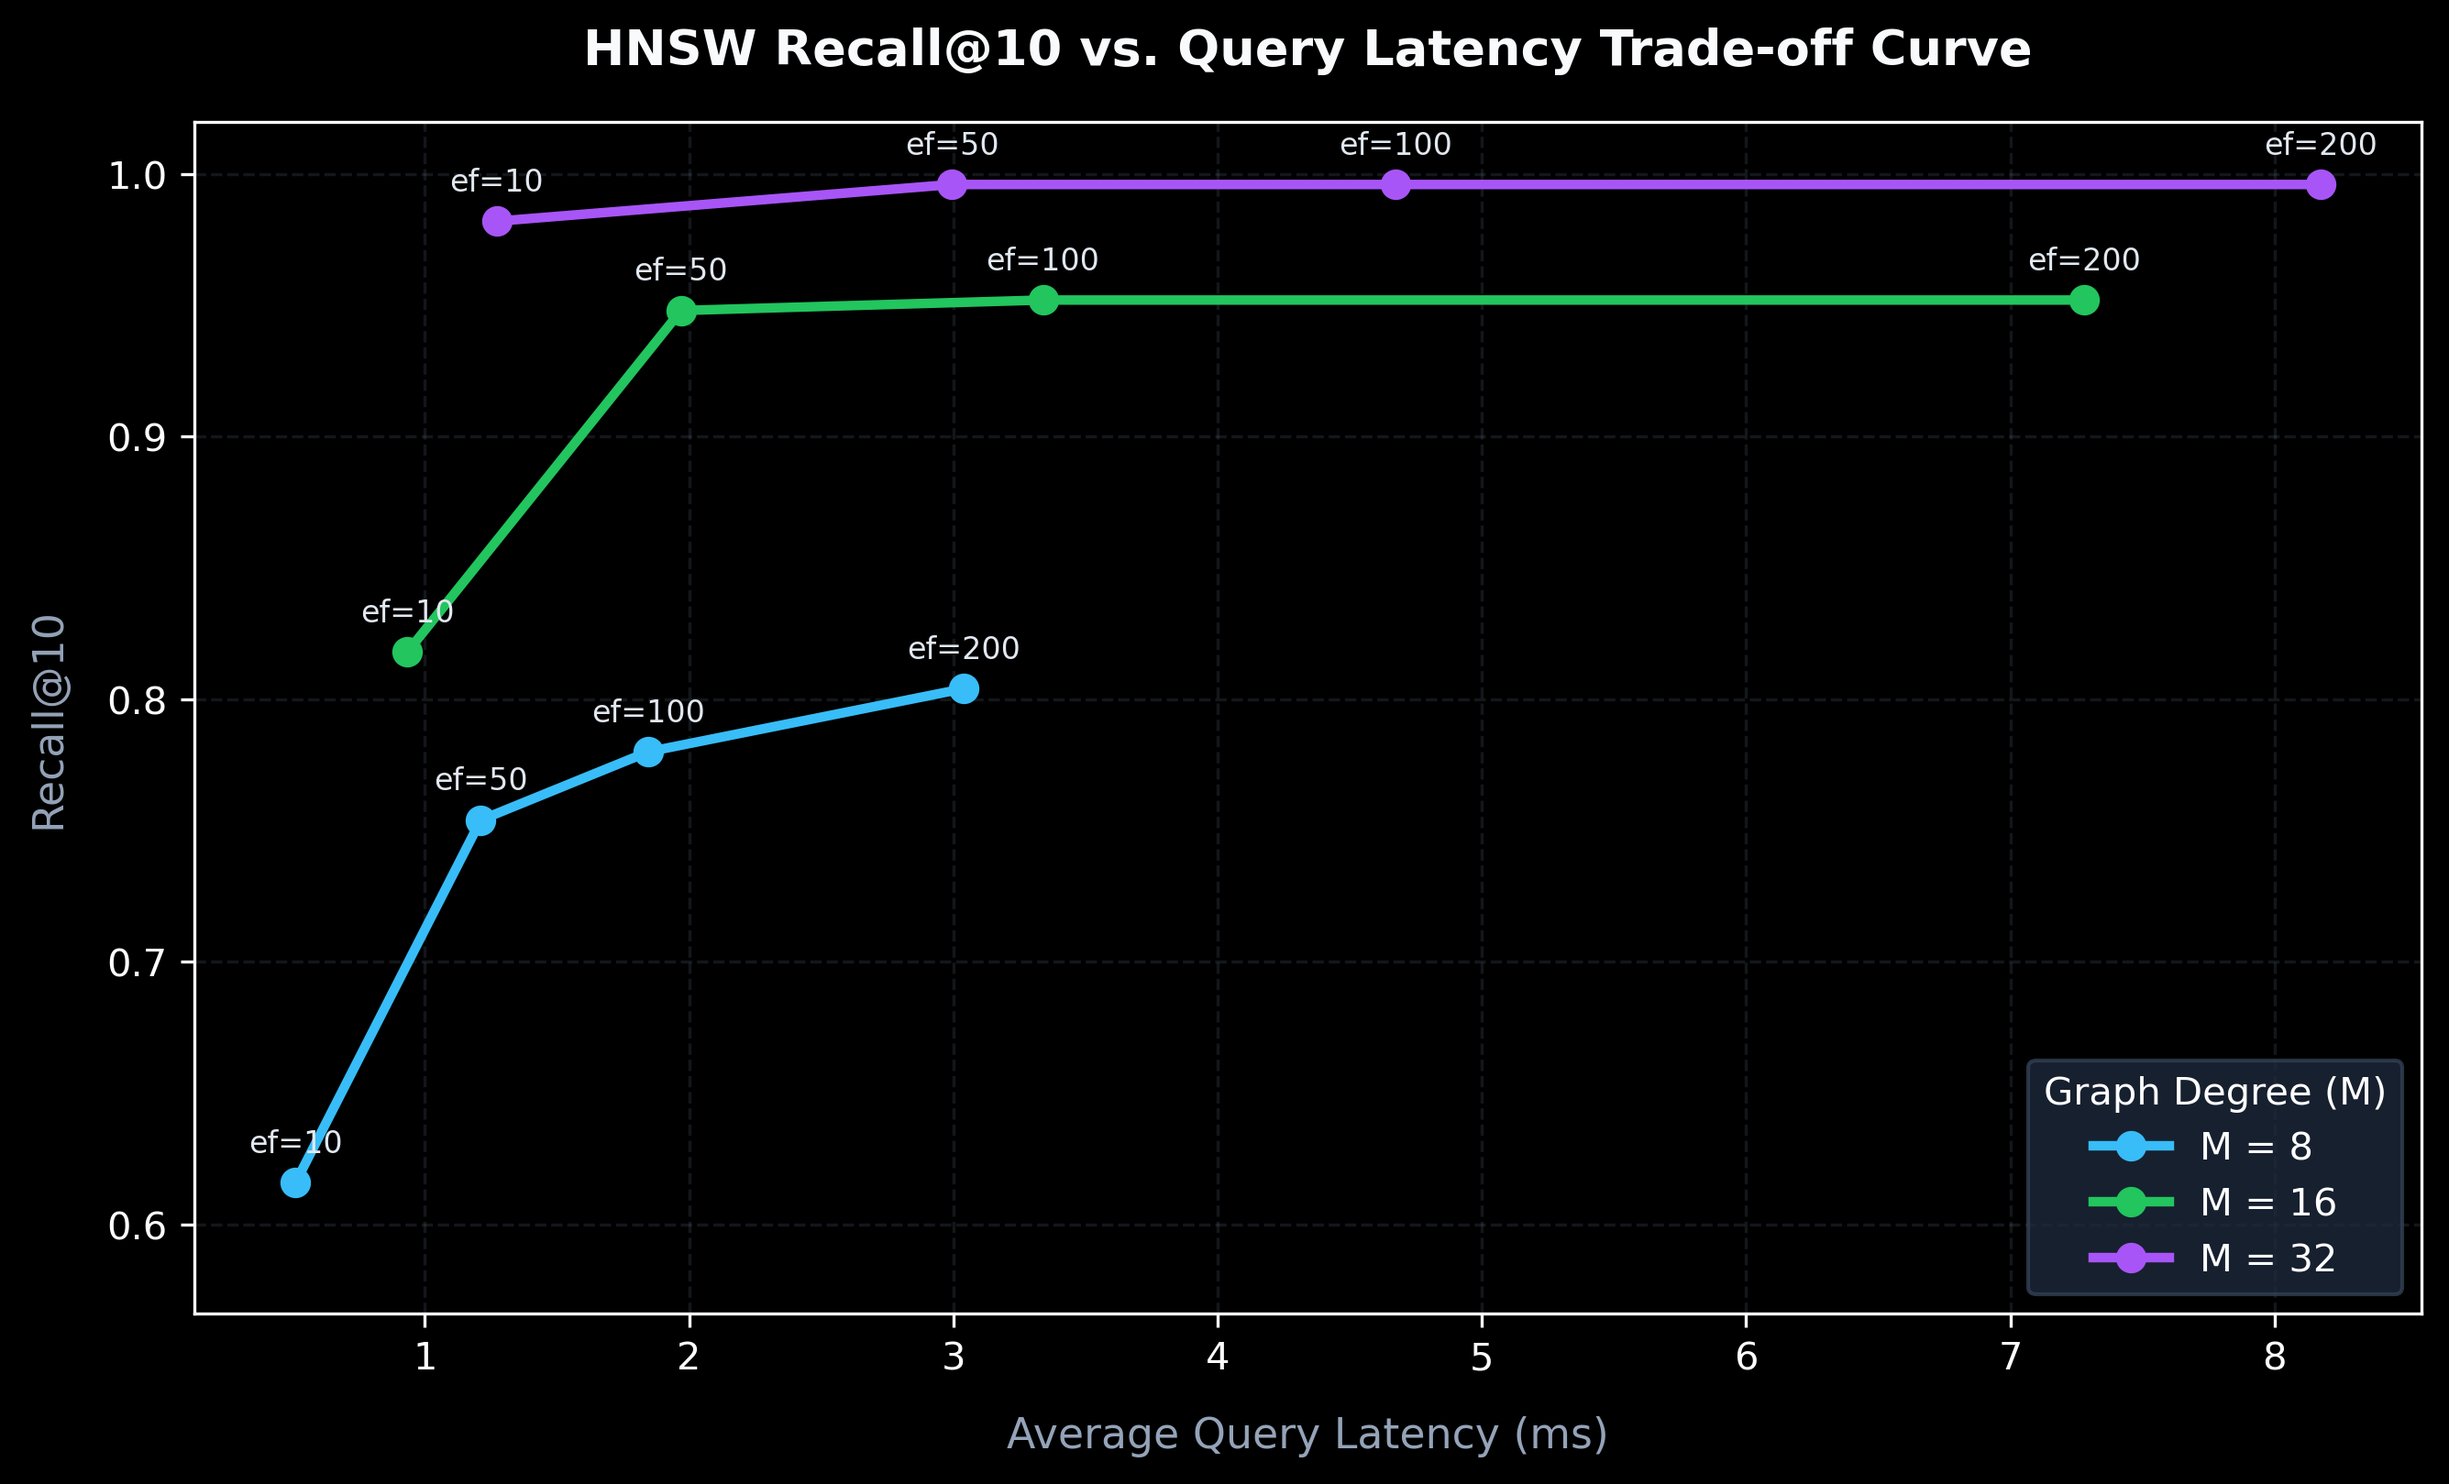
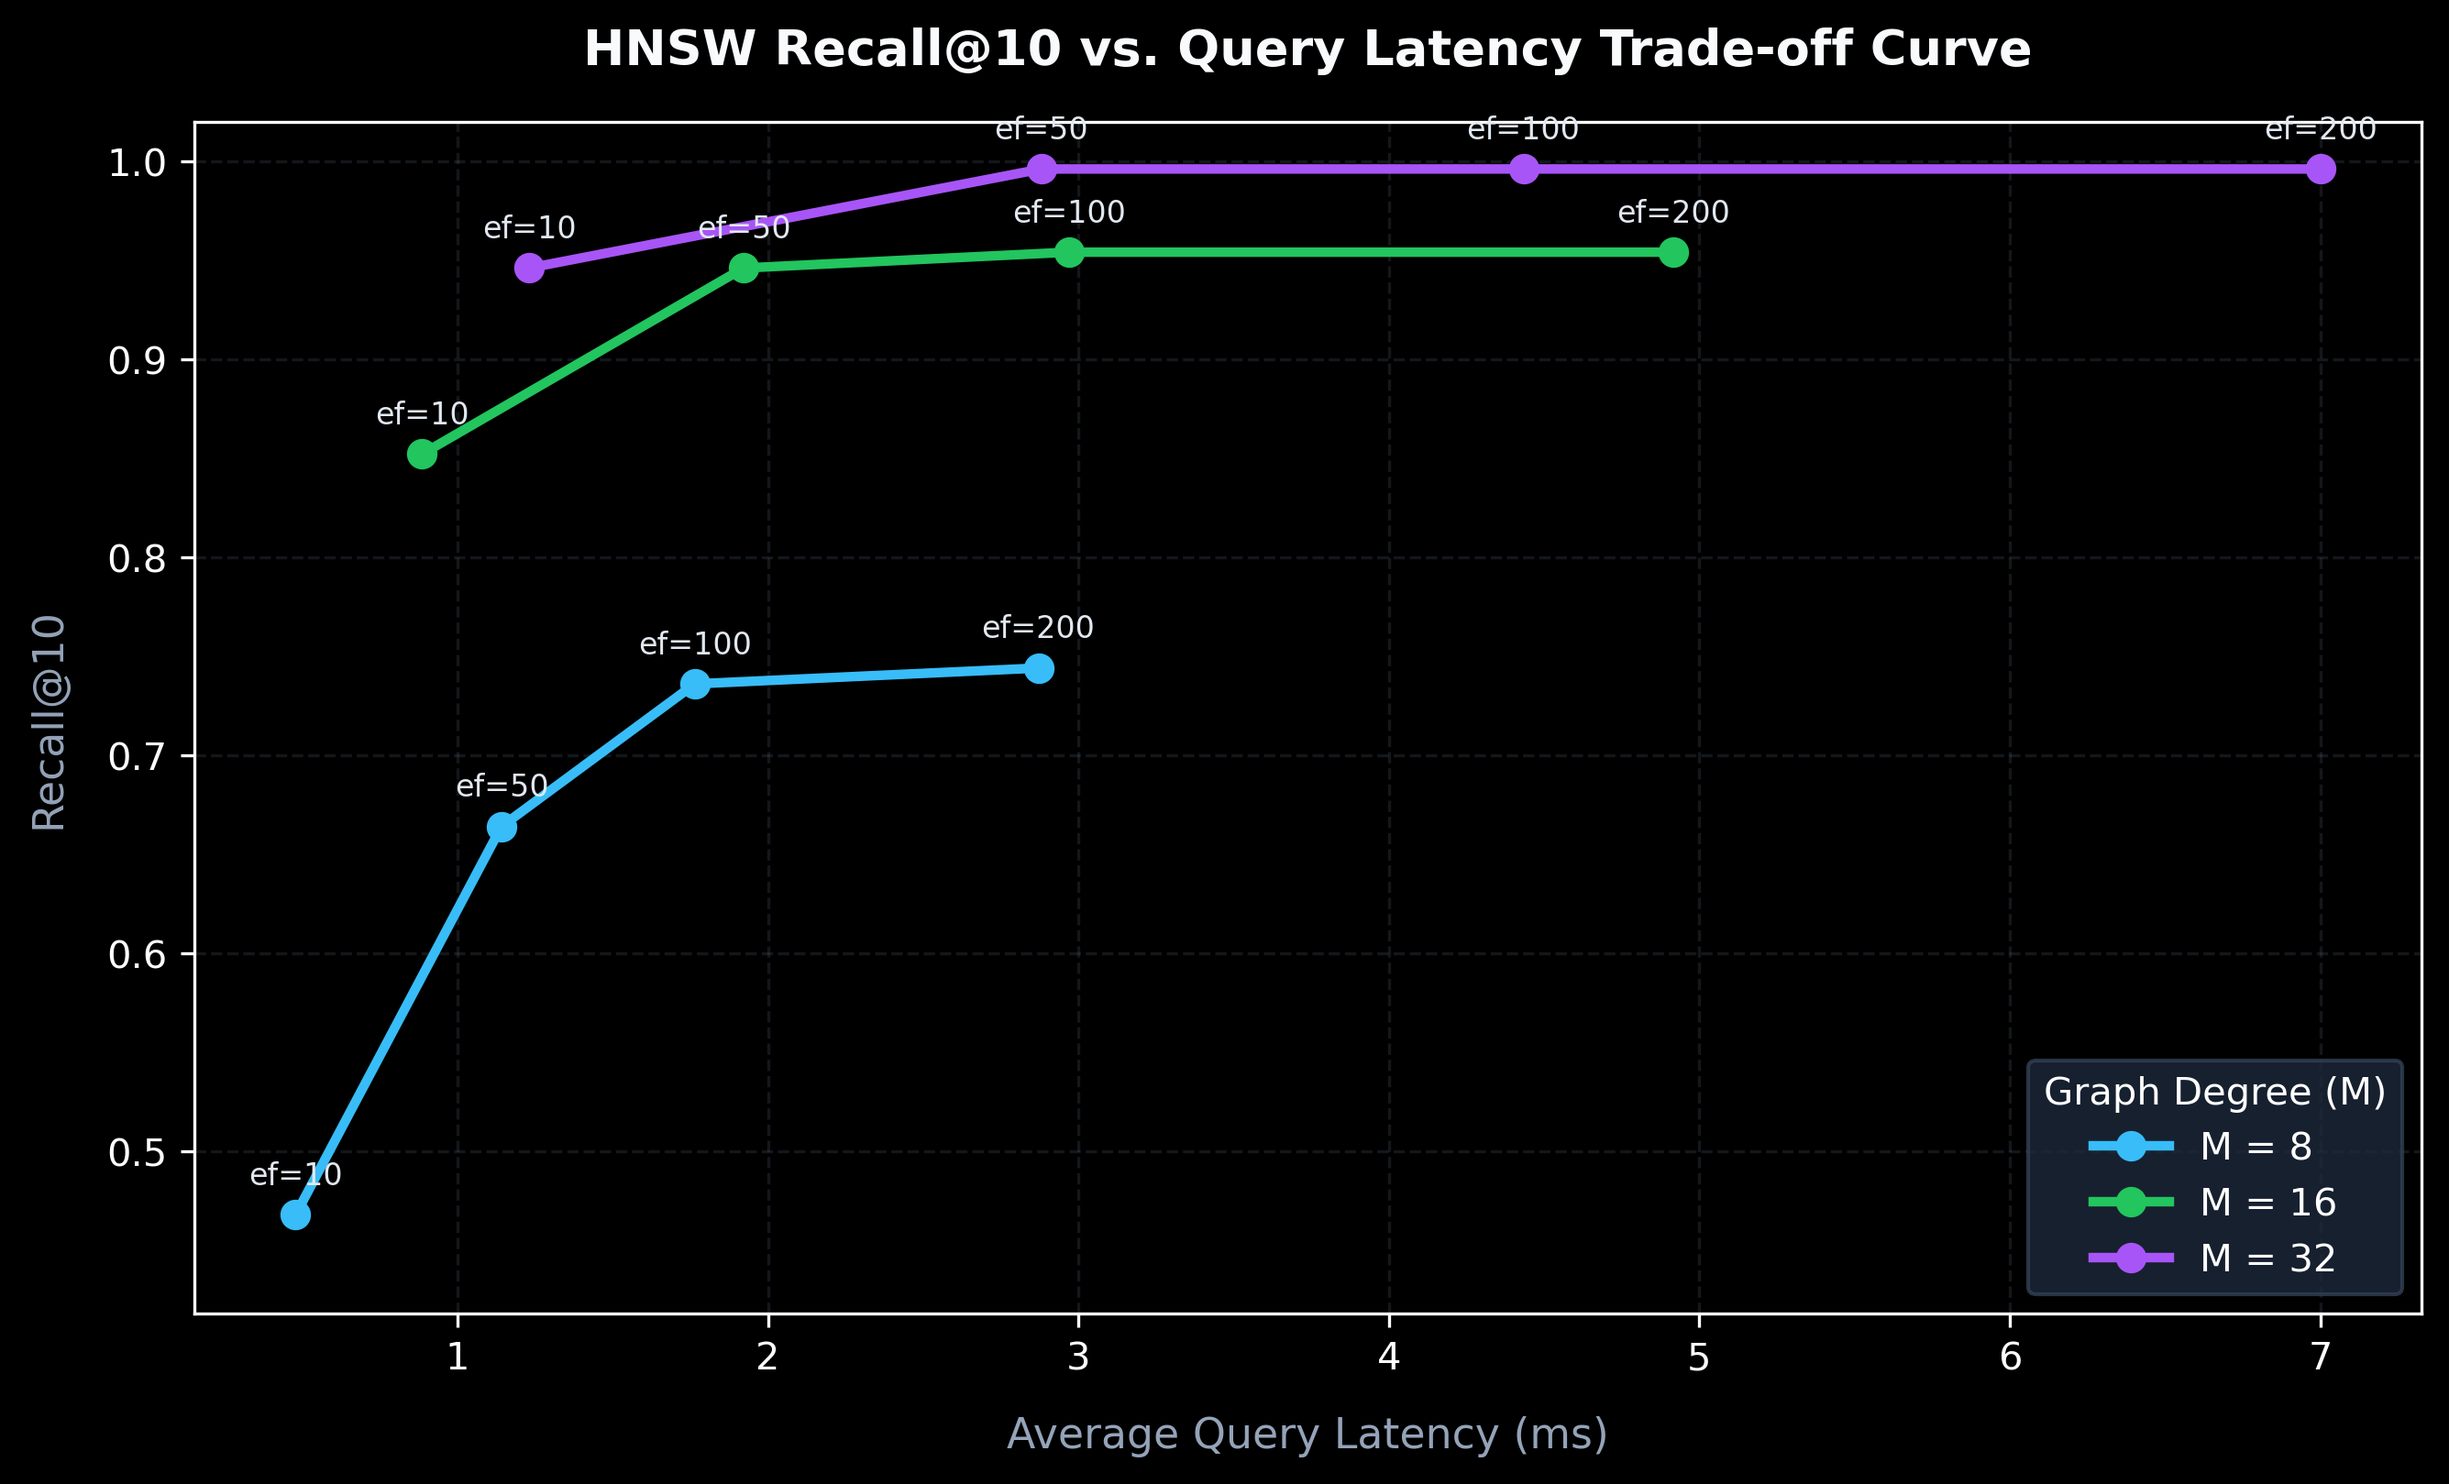
Fix HNSW non-reproducibility by encapsulating RNG state with optional seed parameter

diff --git a/backend/hnsw.py b/backend/hnsw.py
@@ -22,7 +22,10 @@ class HNSW:
     """Hierarchical Navigable Small World index for approximate nearest neighbor search."""
 
     def __init__(
-        self, M: int = DEFAULT_M, ef_construction: int = DEFAULT_EF_CONSTRUCTION
+        self,
+        M: int = DEFAULT_M,
+        ef_construction: int = DEFAULT_EF_CONSTRUCTION,
+        seed: int | None = None,
     ) -> None:
         """Initialize the HNSW index.
 
@@ -32,9 +35,13 @@ class HNSW:
             Number of bidirectional links to establish for each new node, by default 16.
         ef_construction : int, optional
             Size of the dynamic candidate list during construction, by default 200.
+        seed : int | None, optional
+            Random seed for reproducible layer level assignments, by default None.
         """
         self.M = M
         self.ef_construction = ef_construction
+        self.seed = seed
+        self.rng = np.random.default_rng(seed)
 
         # Internal state structures
         self.vectors: dict[int, np.ndarray] = {}
@@ -224,7 +231,7 @@ class HNSW:
         int
             The level at which the node will be inserted.
         """
-        r = 1.0 - np.random.uniform(0.0, 1.0)
+        r = 1.0 - self.rng.uniform(0.0, 1.0)
         m_L = 1.0 / np.log(self.M)
         return int(-np.log(r) * m_L)
 

diff --git a/tests/test_hnsw.py b/tests/test_hnsw.py
@@ -272,3 +272,23 @@ def test_query_no_mutation(populated_mock_hnsw):
     assert set(hnsw.vectors.keys()) == set(original_vectors.keys())
     for node_id in hnsw.vectors:
         assert np.array_equal(hnsw.vectors[node_id], original_vectors[node_id])
+
+
+def test_reproducible_hnsw_construction_same_seed():
+    """Test that two HNSW instances built with the exact same seed produce byte-identical graphs."""
+    rng = np.random.RandomState(42)
+    vectors = [rng.randn(50).astype(np.float32) for _ in range(50)]
+
+    hnsw1 = HNSW(M=16, ef_construction=200, seed=42)
+    for i, vec in enumerate(vectors):
+        hnsw1.insert(vec, i)
+
+    hnsw2 = HNSW(M=16, ef_construction=200, seed=42)
+    for i, vec in enumerate(vectors):
+        hnsw2.insert(vec, i)
+
+    # Assert exact byte-identical graph structures and metadata
+    assert hnsw1.max_level == hnsw2.max_level
+    assert hnsw1.entry_point == hnsw2.entry_point
+    assert hnsw1.graphs == hnsw2.graphs
+

diff --git a/backend/validate.py b/backend/validate.py
@@ -131,7 +131,7 @@ def run_hnswlib_validation(
     # 1. Build and query VectorVault HNSW index
     if log_progress:
         print(f"Building VectorVault HNSW index (M={M}, ef_c={ef_construction})...", flush=True)
-    vv_hnsw = HNSW(M=M, ef_construction=ef_construction)
+    vv_hnsw = HNSW(M=M, ef_construction=ef_construction, seed=seed)
     for i, vec in enumerate(vectors):
         vv_hnsw.insert(vec, i)
         if log_progress and (i + 1) % 1000 == 0:
@@ -256,7 +256,7 @@ def run_parameter_sweep(
     for M in M_values:
         if log_progress:
             print(f"\nBuilding VectorVault HNSW index for M={M}...", flush=True)
-        hnsw = HNSW(M=M, ef_construction=ef_construction)
+        hnsw = HNSW(M=M, ef_construction=ef_construction, seed=seed)
         for i, vec in enumerate(vectors):
             hnsw.insert(vec, i)
             if log_progress and (i + 1) % 1000 == 0:

diff --git a/backend/main.py b/backend/main.py
@@ -40,7 +40,7 @@ async def lifespan(app: FastAPI):
     word_to_index = {word: idx for idx, word in enumerate(words)}
 
     logger.info("Initializing HNSW index construction...")
-    hnsw = HNSW()
+    hnsw = HNSW(seed=42)
     num_vectors = len(vectors)
 
     for i, vec in enumerate(vectors):

diff --git a/backend/benchmark.py b/backend/benchmark.py
@@ -106,7 +106,7 @@ if __name__ == "__main__":
     words, vectors = load_glove(glove_path)
 
     print("Building HNSW index...")
-    hnsw = HNSW()
+    hnsw = HNSW(seed=42)
     for i, vec in enumerate(vectors):
         hnsw.insert(vec, i)
         if (i + 1) % 1000 == 0:

diff --git a/docs/DECISIONS.md b/docs/DECISIONS.md
@@ -65,3 +65,9 @@
 - **Reasoning**: Internal brute-force comparisons only verify local math consistency; benchmarking against `hnswlib` proves that VectorVault's graph routing achieves structural parity with standard production implementations (100% Top-10 ID overlap and identical recall metrics). Sweeping the $M \times ef\_search$ grid maps the exact Recall vs. Query Latency trade-off curve across sparse vs. dense graph connectivity choices.
 - **Code Reference**: [backend/validate.py](file:///Users/srinivasch/Documents/Projects/VectorVault/backend/validate.py)
 
+## [2026-08-18] Fully Deterministic HNSW Index Construction via Seeded RNG
+- **Decision**: Add an optional `seed: int | None = None` parameter to `HNSW.__init__`, storing `self.rng = np.random.default_rng(seed)` on the instance and using `self.rng.uniform()` inside `_random_level()`. Default to `seed=42` across `backend/benchmark.py`, `backend/validate.py`, `backend/main.py`, and test suites.
+- **Reasoning**: Previously, `_random_level()` drew from global unseeded `np.random.uniform()`, causing probabilistic graph topology differences on every index build and producing minor recall discrepancies (~0.948 vs 0.954) on identical configs. Encapsulating RNG state inside `HNSW` instances guarantees that two index builds with the same seed yield 100% byte-identical graph structures (`self.graphs`), resulting in reproducible evaluation metrics (`Recall@10 = 0.9460` across both `benchmark.py` and `validate.py`).
+- **Code Reference**: [HNSW.__init__ in backend/hnsw.py](file:///Users/srinivasch/Documents/Projects/VectorVault/backend/hnsw.py#L25-L40), [run_benchmark in backend/benchmark.py](file:///Users/srinivasch/Documents/Projects/VectorVault/backend/benchmark.py#L109), and [run_hnswlib_validation in backend/validate.py](file:///Users/srinivasch/Documents/Projects/VectorVault/backend/validate.py#L134)
+
+

diff --git a/README.md b/README.md
@@ -184,9 +184,9 @@ Example Output:
 | Metric               | Value                    |
 +----------------------+--------------------------+
 | Queries Run          | 50                       |
-| Avg HNSW Time        | 1.8662 ms                |
-| Avg Brute Force Time | 26.0342 ms               |
-| Avg Recall@10        | 0.9540                   |
+| Avg HNSW Time        | 1.9260 ms                |
+| Avg Brute Force Time | 26.5294 ms               |
+| Avg Recall@10        | 0.9460                   |
 +----------------------+--------------------------+
 ```
 
@@ -204,13 +204,14 @@ Example `hnswlib` Comparison Output:
 | Metric               | Value                    |
 +----------------------+--------------------------+
 | Queries Run          | 50                       |
-| VectorVault Recall   | 0.9520                   |
+| VectorVault Recall   | 0.9460                   |
 | hnswlib Recall       | 1.0000                   |
-| Top-10 ID Overlap    | 95.2%                    |
-| VectorVault Latency  | 2.3445 ms                |
-| hnswlib Latency      | 0.0279 ms                |
+| Top-10 ID Overlap    | 94.6%                    |
+| VectorVault Latency  | 1.9427 ms                |
+| hnswlib Latency      | 0.0267 ms                |
 +----------------------+--------------------------+
 ```
+*Note: Prior benchmark runs used unseeded global RNG for graph layer assignment. Passing `seed=42` to `HNSW(seed=42)` guarantees 100% byte-identical graph construction and reproducible recall numbers across evaluation modules.*
 
 ### 📈 Recall vs. Latency Trade-off Curve
 Executing `backend.validate` generates a parameter sweep plot displaying how graph degree ($M$) and search beam size ($ef\_search$) impact accuracy vs. speed:
